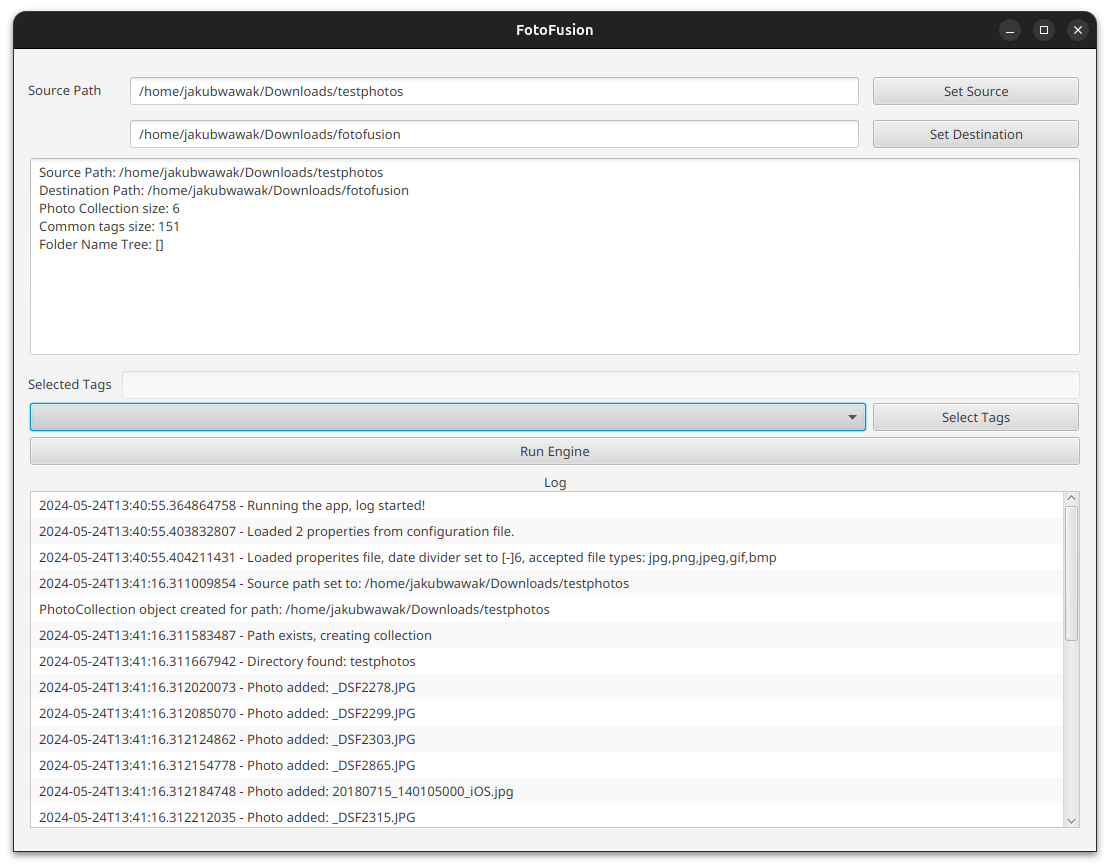
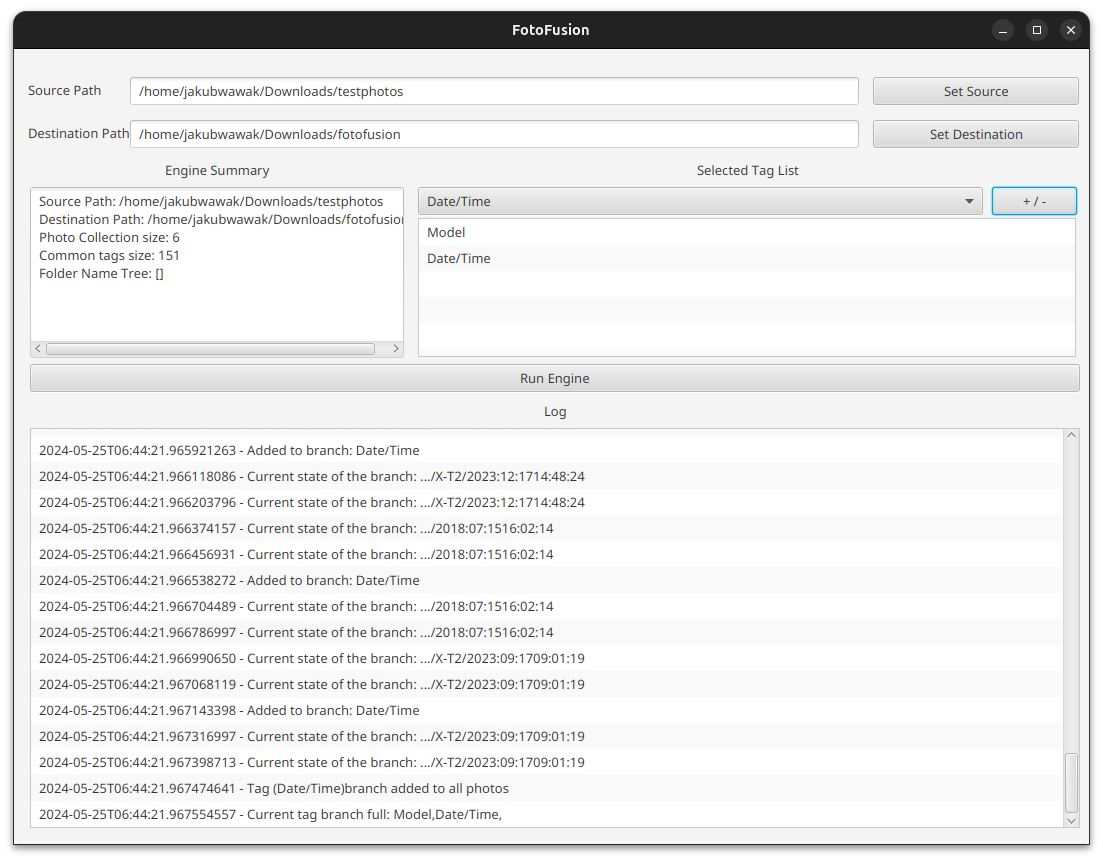
ff250524JWA

diff --git a/src/main/java/com/jakubwawak/fotofusionengine/userinterface/MainGuiController.java b/src/main/java/com/jakubwawak/fotofusionengine/userinterface/MainGuiController.java
@@ -9,6 +9,7 @@ import com.jakubwawak.FotoFusionApplication;
 import javafx.event.ActionEvent;
 import javafx.scene.control.*;
 import javafx.fxml.FXML;
+import javafx.scene.input.KeyCode;
 import javafx.stage.DirectoryChooser;
 
 import java.io.File;
@@ -27,8 +28,6 @@ public class MainGuiController {
     @FXML
     private TextArea fld_stats;
 
-    @FXML TextField field_tags;
-
     @FXML
     private Button btn_setsource;
 
@@ -39,8 +38,22 @@ public class MainGuiController {
     private ComboBox<String> cbb_tags;
 
     @FXML
-    private Button btn_selecttags;
+    private ListView<String> list_tags;
 
+    @FXML
+    public void initialize() {
+        list_tags.setOnKeyPressed(event -> {
+            if (event.getCode() == KeyCode.DELETE) {
+                String selectedItem = list_tags.getSelectionModel().getSelectedItem();
+                if (selectedItem != null) {
+                    list_tags.getItems().remove(selectedItem);
+                    FotoFusionApplication.engine.removeTagBranch(selectedItem);
+                    loadTagList();
+                    loadLogElements();
+                }
+            }
+        });
+    }
 
     /**
      * Function for handling button source
@@ -60,7 +73,6 @@ public class MainGuiController {
                 FotoFusionApplication.engine.runCollectionGeneration();
                 FotoFusionApplication.engine.runPhotoExifLoader();
                 fld_stats.setText(FotoFusionApplication.engine.getCurrentValues());
-                loadTagElements();
             }
             else
                 field_source.setText("Invalid directory");
@@ -84,6 +96,7 @@ public class MainGuiController {
             if ( file.exists() && file.isDirectory() ) {
                 FotoFusionApplication.engine.setDestinationPath(selectedDirectory.getAbsolutePath());
                 fld_stats.setText(FotoFusionApplication.engine.getCurrentValues());
+                loadTagElements();
             }
             else
                 field_destinaton.setText("Invalid directory");
@@ -99,6 +112,7 @@ public class MainGuiController {
         for (String logElement : FotoFusionApplication.log.logCollection) {
             list_log.getItems().add(logElement);
         }
+        list_log.scrollTo(list_log.getItems().size() - 1);
     }
 
     /**
@@ -108,6 +122,16 @@ public class MainGuiController {
         cbb_tags.getItems().clear();
         for (String tag : FotoFusionApplication.engine.collection.getCommonTags()) {
             cbb_tags.getItems().add(tag);
+        }
+    }
+
+    /**
+     * Function for loading log elements to the list
+     */
+    public void loadTagList(){
+        list_tags.getItems().clear();
+        for (String tag : FotoFusionApplication.engine.folderNameTree) {
+            list_tags.getItems().add(tag);
         }
     }
 
@@ -122,13 +146,31 @@ public class MainGuiController {
         {
             if ( !FotoFusionApplication.engine.folderNameTree.contains(selectedTags)){
                 FotoFusionApplication.engine.addTagBranch(selectedTags);
-                field_tags.setText(FotoFusionApplication.engine.listFolderNameTree());
+                FotoFusionApplication.log.add("Current tag branch full: "+FotoFusionApplication.engine.listFolderNameTree());
             }
             else{
                 FotoFusionApplication.engine.removeTagBranch(selectedTags);
-                field_tags.setText(FotoFusionApplication.engine.listFolderNameTree());
+                FotoFusionApplication.log.add("Current tag branch full: "+FotoFusionApplication.engine.listFolderNameTree());
             }
         }
         loadLogElements();
+        loadTagList();
     }
+
+    /**
+     * Function for handling button run copy
+     * @param event
+     */
+    @FXML
+    private void handleBtnRunCopy(ActionEvent event) {
+        if ( FotoFusionApplication.engine.checkGoodToStart()){
+            FotoFusionApplication.engine.runPhotoCopy();
+            loadLogElements();
+        }
+        else{
+            FotoFusionApplication.log.add("Cannot run copy, check the source and destination path");
+            loadLogElements();
+        }
+    }
+
 }

diff --git a/src/main/java/com/jakubwawak/fotofusionengine/Engine.java b/src/main/java/com/jakubwawak/fotofusionengine/Engine.java
@@ -33,14 +33,27 @@ public class Engine {
     }
 
     /**
+     * Function for checking if engine is ready to start
+     * @return
+     */
+    public boolean checkGoodToStart(){
+        if (sourcePath.isEmpty() || destinationPath.isEmpty() || collection == null || folderNameTree.isEmpty()){
+            return false;
+        }
+        return true;
+    }
+
+    /**
      * Constructor with preset object
      * @param preset
      */
     public Engine(FotoFusionPreset preset){
         this.sourcePath = "";
+
         folderNameTree = (ArrayList) Arrays.asList(preset.getValue("folderTreeName").split(","));
         setSourcePath(preset.getValue("source_path"));
         setDestinationPath(preset.getValue("destination_path"));
+        addTagBranchesFromTree();
         runCollectionGeneration();
         runPhotoExifLoader();
     }
@@ -153,12 +166,22 @@ public class Engine {
             for(Photo photo : collection.collection){
                 photo.addBranch(tagName);
             }
+            if (!folderNameTree.contains(tagName))
+                folderNameTree.add(tagName);
             FotoFusionApplication.log.add("Tag ("+tagName+")branch added to all photos");
         }
         else{
             FotoFusionApplication.log.add("Given tag name is not in common tags list");
         }
+    }
 
+    /**
+     * Function for adding tag branches from tree
+     */
+    public void addTagBranchesFromTree(){
+        for(String tag : folderNameTree){
+            addTagBranch(tag);
+        }
     }
 
     /**
@@ -170,7 +193,8 @@ public class Engine {
             for(Photo photo : collection.collection){
                 photo.removeBranch(tagName);
             }
-            FotoFusionApplication.log.add("Tag ("+tagName+")branch added to all photos");
+            folderNameTree.remove(tagName);
+            FotoFusionApplication.log.add("Tag ("+tagName+")branch removed from all photos");
         }
         else{
             FotoFusionApplication.log.add("Given tag name is not in common tags list");

diff --git a/src/main/java/com/jakubwawak/FotoFusionApplication.java b/src/main/java/com/jakubwawak/FotoFusionApplication.java
@@ -21,7 +21,7 @@ import java.util.Scanner;
 public class FotoFusionApplication {
 
     public static String version = "v1.1.0";
-    public static String build = "ff240524JWA";
+    public static String build = "ff250524JWA";
     public static FotoFusionLog log = new FotoFusionLog(true);;
     public static String[] photoExtensions = {};
     public static String dateDivider = "";
@@ -64,9 +64,10 @@ public class FotoFusionApplication {
             if ( args.length == 1){
                 String pathToPreset = args[0];
                 File file = new File(pathToPreset);
-                if (file.exists()){
+                if (file.exists() && file.isFile() && file.getName().contains(".ffpreset")){
                     FotoFusionPreset ffp = new FotoFusionPreset(pathToPreset);
                     ffp.parsePropertiesFile();
+                    //TODO error with loading preset
                     engine = new Engine(ffp);
                     Scanner sc = new Scanner(System.in);
                     engine.runDummyPhotoCopy();
@@ -75,6 +76,9 @@ public class FotoFusionApplication {
                     if ( ans.equals("run")){
                         engine.runPhotoCopy();
                     }
+                }
+                else{
+                    log.add("Given file is not a proper preset file");
                 }
             }
         }

diff --git a/src/main/java/com/jakubwawak/maintanance/FotoFusionPreset.java b/src/main/java/com/jakubwawak/maintanance/FotoFusionPreset.java
@@ -20,7 +20,7 @@ public class FotoFusionPreset {
 
     String propertiesFileTitle = "fotofusion";
 
-    int INTEGRITY_CHECK_FLAG = 2;
+    int INTEGRITY_CHECK_FLAG = 4;
     String EXPECTED_FILEVERSION = "1";
 
     String propertiesFile;
@@ -39,7 +39,7 @@ public class FotoFusionPreset {
      * @param propertiesFile
      */
     public FotoFusionPreset(String propertiesFile){
-        this.propertiesFile = propertiesFile;
+        this.propertiesFile = propertiesFile + ".ffpreset";
         propertiesCollection = new ArrayList<>();
         error = false;
 

diff --git a/README.md b/README.md
@@ -7,6 +7,10 @@ FotoFusion is a Java-based application designed to manage and manipulate photo c
 =======
 ## Changes:
 
+ff250524JWA
+1. GUI bug fixes.
+2. GUI UI changes.
+
 ff240524JWA
 1. Added graphical user interface (GUI) to the application.
 2. Added `gui` command to start the GUI.
